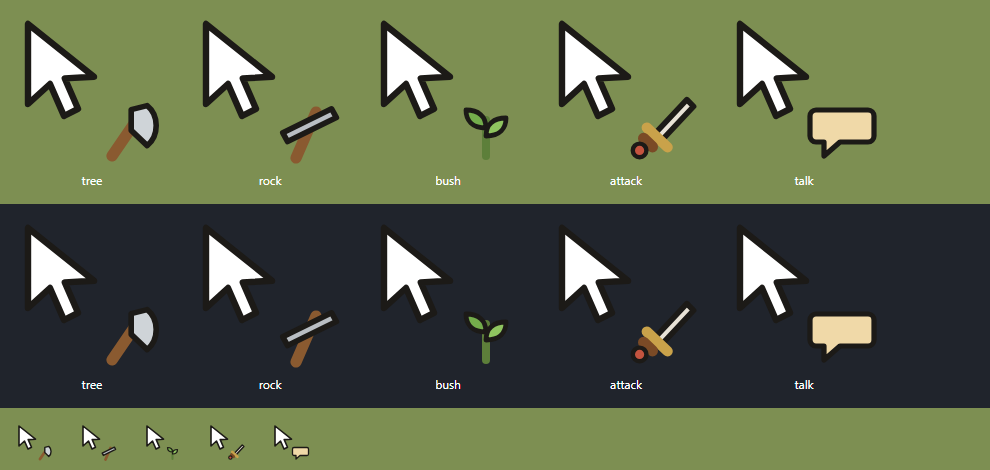
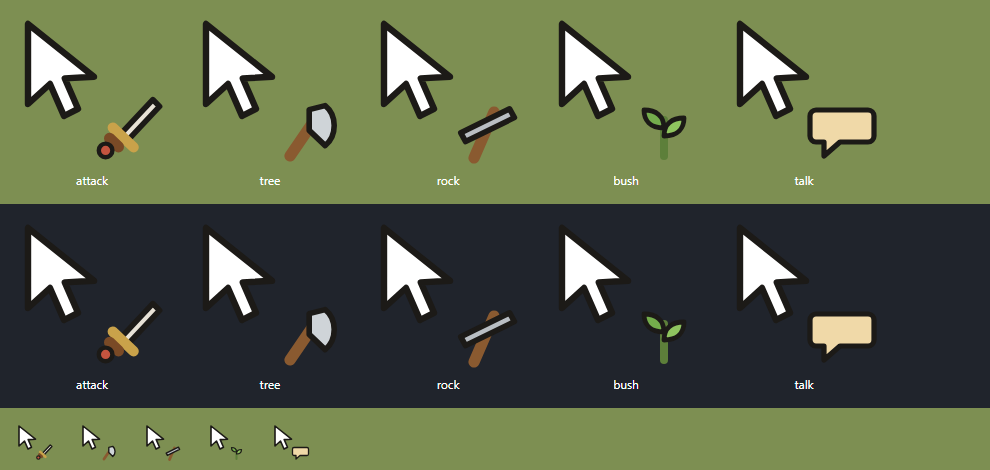
M70.232: verify the attack cursor, and measure what gathering costs
Two things the last two milestones left owed. No game code changed.

The attack cursor is now read off the live canvas with the pointer on a
real slime. Three things had been defeating that, none of them the
feature: the client builds monsters far beyond the view so the walk loop
exited without stepping; the first ones visible sit at the screen edge
under the dock rail, which is DOM above the canvas so pointermove never
reaches it; and monsters are picked by distance from their projected
centre.

And the gathering effects are measured rather than assumed: 0.0030ms
average per update, 0.30ms worst, 0.181ms per second of play. The first
run of that harness reported 0.0011ms and 0 gathers — it only walked, and
M70.230 had just made walking gather nothing. Its own guard caught it;
without that it would have been published as "gathering is free".

Suite unchanged at 46/46.

diff --git a/PLAN.md b/PLAN.md
@@ -22673,3 +22673,44 @@ the result — so what is proven there is the artwork and the one-line mapping,
 not an observed hover. Said plainly rather than left implied.
 
 Suite 46/46.
+
+**Phase 70 M70.232 — closing the two things M70.230/231 left open.** No game
+code changed here; both are measurements that were owed.
+
+THE ATTACK CURSOR IS NOW VERIFIED ON A REAL MONSTER. M70.231 shipped with that
+stated as unverified, which was honest and was not good enough. Three things
+were defeating it, none of them the feature:
+
+  * the client builds monsters well beyond the view, so `monsters.size > 0` says
+    nothing about whether a pointer can reach one — the walk loop was exiting
+    without taking a step;
+  * the first monsters to come into view are at the screen EDGE, under the dock
+    rail and the panels. Those are real DOM above the canvas, so a pointermove
+    there never reaches it and `pointerX` stays -1. The probe was moving the
+    mouse onto the interface and concluding that hover was broken;
+  * and a creature is picked by screen distance from its projected centre, so
+    the pointer has to land near that centre rather than merely on the body.
+
+Walking until something is in the central region, clear of the interface, and
+then trying each on-screen monster by its own projected centre: `hoverId` set,
+`a slime — svg ok, hotspot 3,2, 4 paths`, which is the sword badge. All five
+cursors are now read back off the live canvas or drawn from the game's own
+table.
+
+AND THE GATHERING EFFECTS COST NOTHING MEASURABLE. `gathercost.mjs` hooks
+`GatherFx.update` rather than watching frames, for `outlinecost.mjs`'s reason: a
+backgrounded Chromium throttles rAF to 1Hz and voids any frame measurement.
+
+Its first run reported 0.0011ms average and would have been published as
+"gathering is free" — except it also reported `0 gather(s) started`, because
+M70.230 had just made proximity gather nothing and the harness only walked. The
+guard that prints "the figures below are of an idle GatherFx and mean nothing"
+is the only reason that did not become a finding. It now places an order, and
+re-places it when the node is spent.
+
+The real figure, over 75s with 7 gathers: 4496 updates at 60/s, 0.0030ms
+average, 0.30ms worst, 0.181ms per second of play. About two hundredths of one
+per cent of a frame budget, and no single update within two orders of magnitude
+of costing a frame.
+
+Suite unchanged at 46/46 — this milestone touches no game code.
